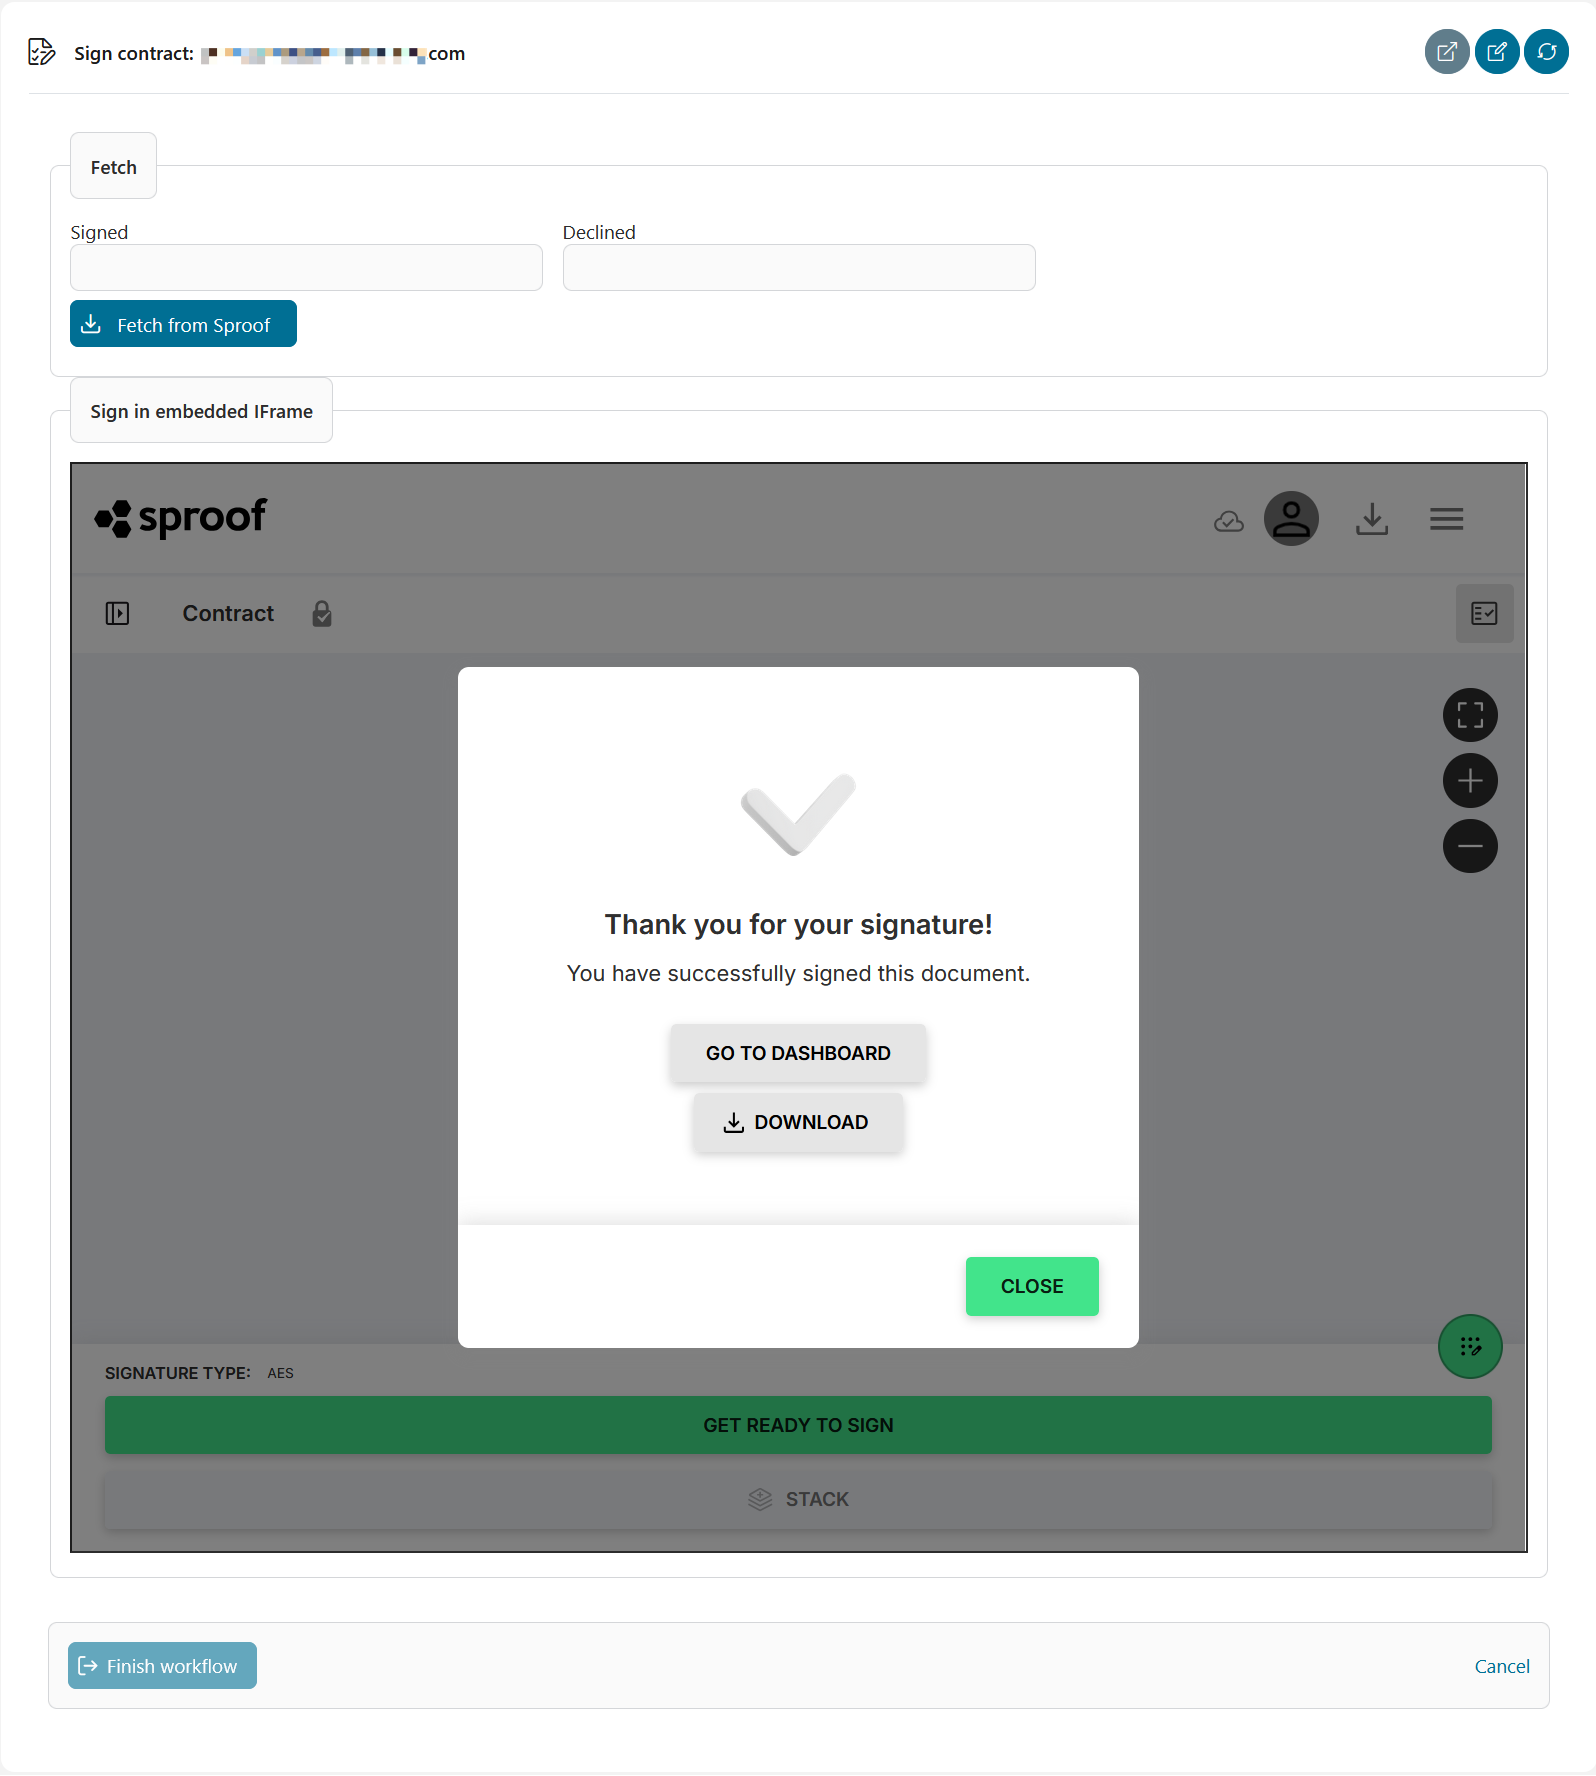
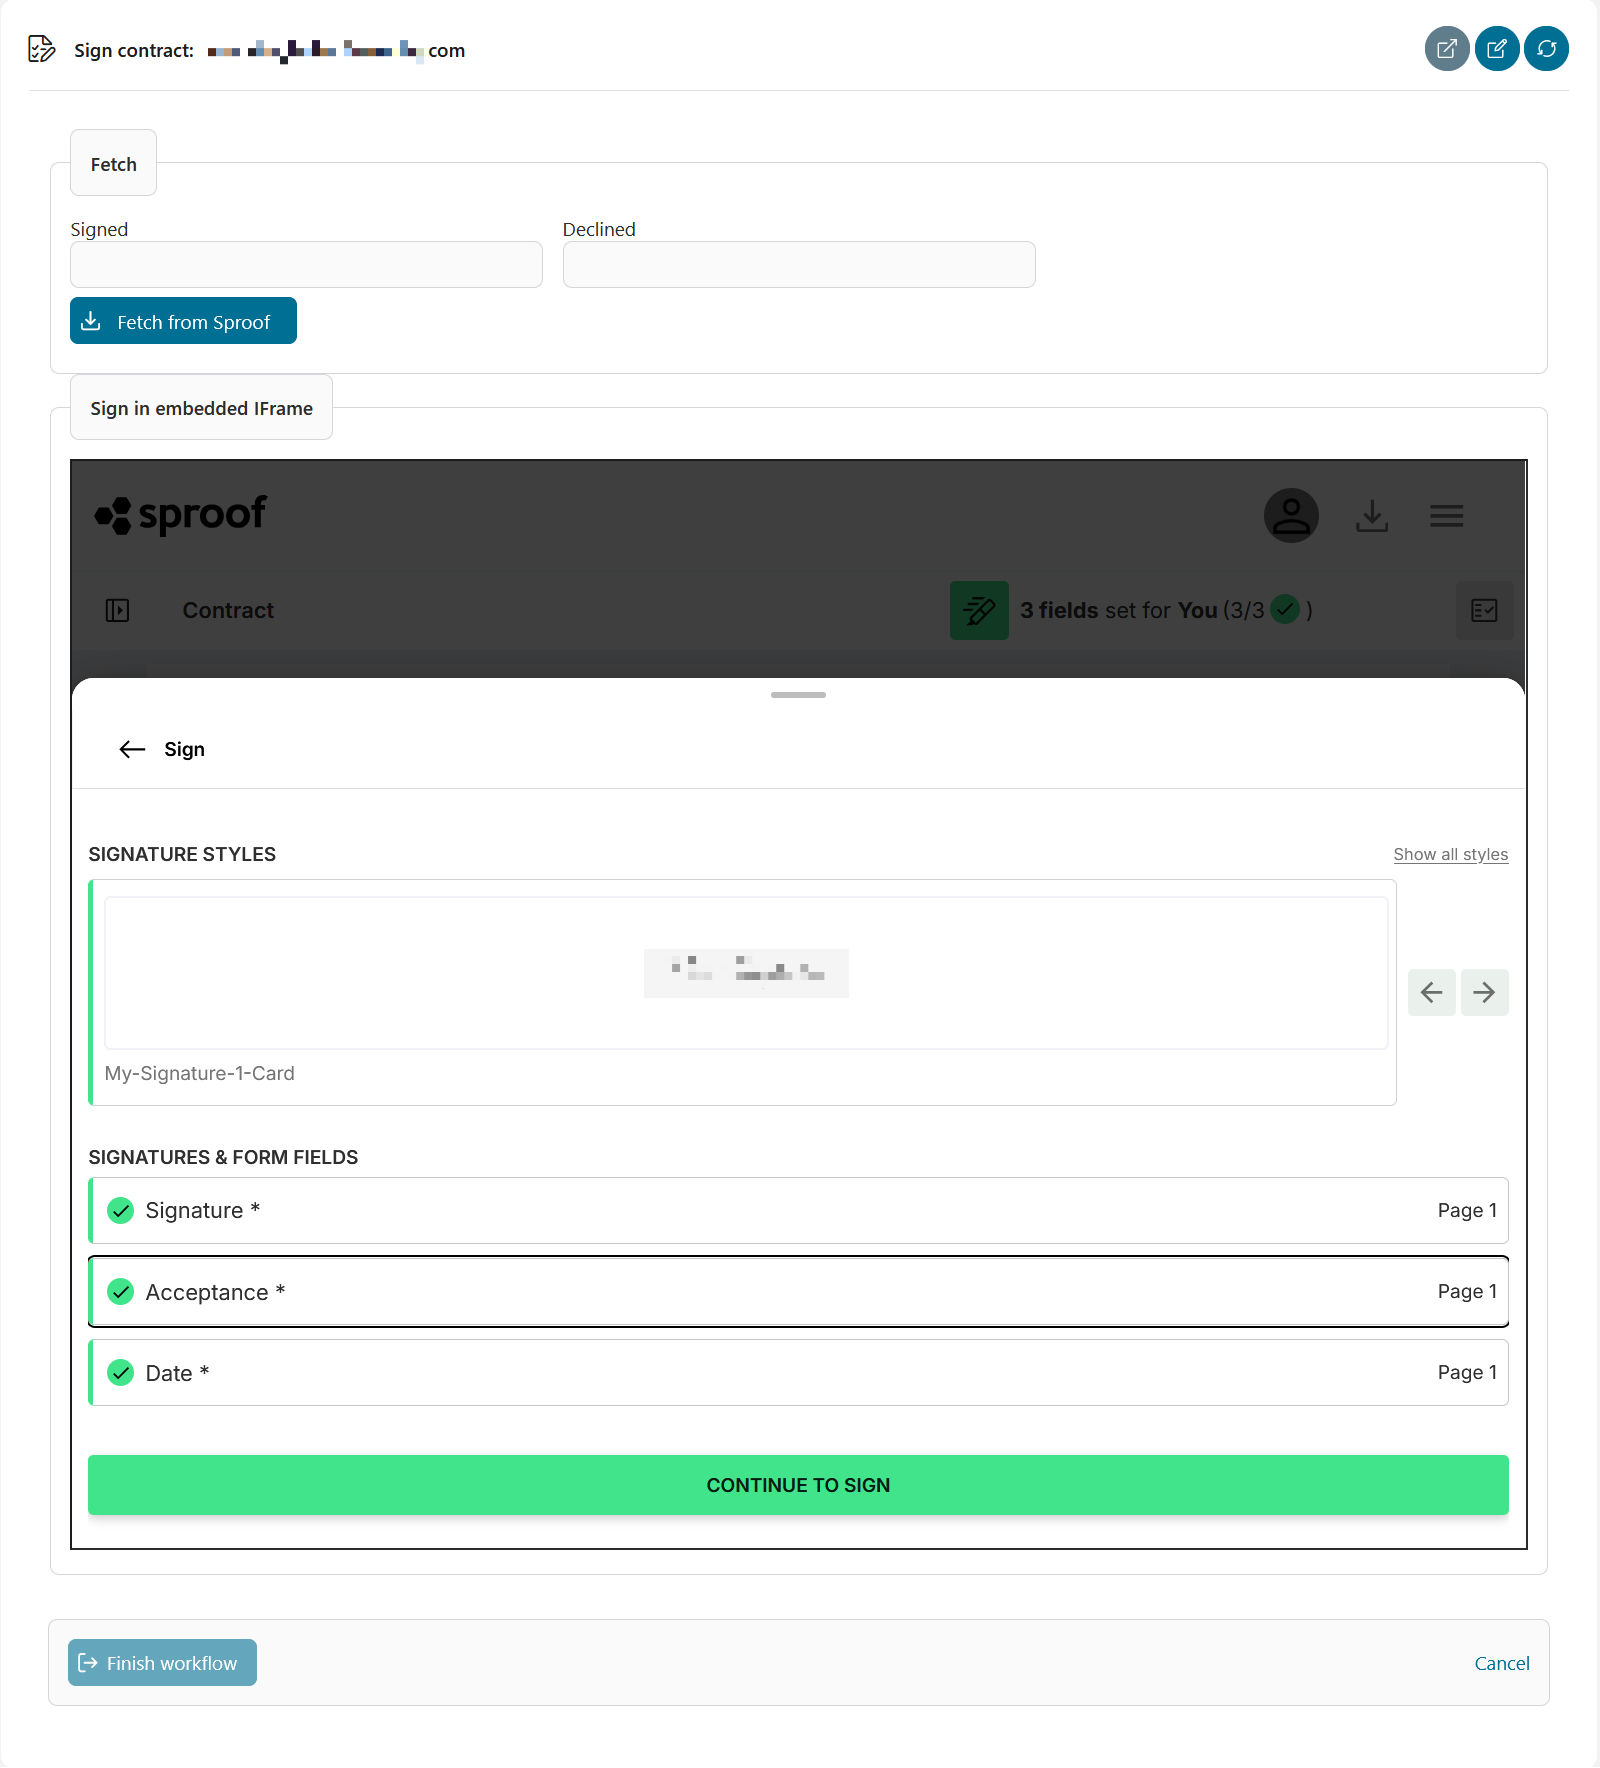
Documented signature task demo.

diff --git a/sproof-connector-product/README.md b/sproof-connector-product/README.md
@@ -69,13 +69,13 @@ Sproof's *Quick access* dialog guides the signer through the required fields. In
 
 After all three fields have been filled (shown as 3/3 in the Sproof header), the **Continue to Sign** button becomes active. Clicking it submits the signature to Sproof.
 
-![All fields completed — continue to sign](images/task6.png)
+![All fields completed — continue to sign](images/task5.png)
 
 #### Step 6: Signature confirmed
 
 Sproof displays a *Thank you for your signature!* confirmation inside the embedded IFrame. From here the signer can go to the Sproof dashboard or download the signed document. Clicking **Close** dismisses the confirmation and returns to the AxonIvy task view.
 
-![Signature confirmed](images/task5.png)
+![Signature confirmed](images/task6.png)
 
 #### Step 7: Finishing the workflow
 
